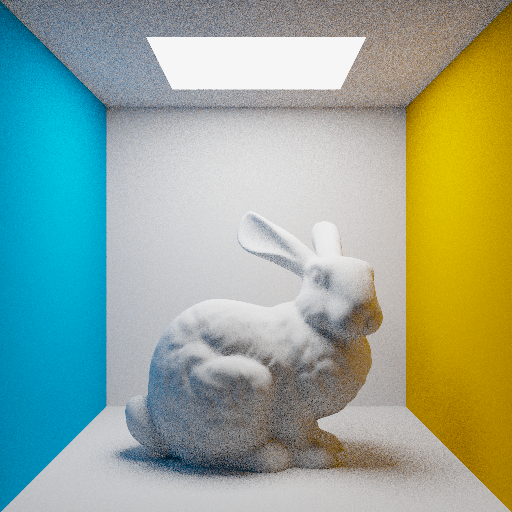
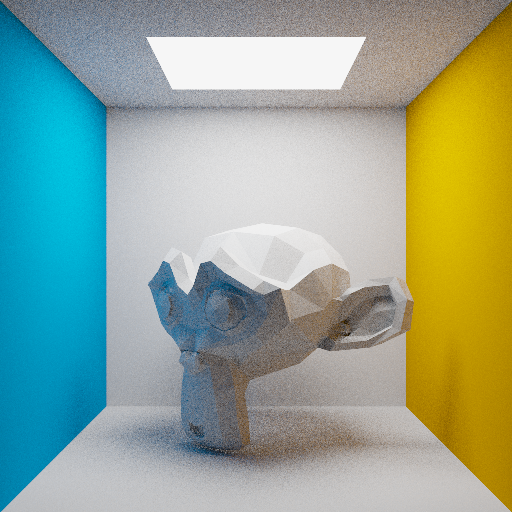
fix mesh parsing to deal index references

Changed region(s): [[0.125, 0.4062, 0.9375, 0.9688], [0.0, 0.0, 1.0, 0.25]]

diff --git a/src/geometry/mesh.h b/src/geometry/mesh.h
@@ -2,6 +2,7 @@
 #define MESH_H_
 
 #include <vector>
+#include <map>
 
 #include "glm/glm.hpp"
 
@@ -44,18 +45,17 @@ Mesh Mesh::loadObj(std::string filename){
 
     bool ret = tinyobj::LoadObj(&attrib, &shapes, &materials, &err, filename.c_str());
 
-    
+    //operator overload for std::map
+    auto compare_idx = [](const tinyobj::index_t& a, const tinyobj::index_t& b) {
+        return a.vertex_index < b.vertex_index ||
+            (a.vertex_index == b.vertex_index && a.normal_index < b.normal_index) ||
+            (a.vertex_index == b.vertex_index && a.normal_index == b.normal_index && a.texcoord_index < b.texcoord_index);
+    };
 
-    //copy vertices into mesh
-    for (int i = 0; i < attrib.vertices.size(); i+=3){
-            float vx = attrib.vertices[i];
-            float vy = attrib.vertices[i + 1];
-            float vz = attrib.vertices[i + 2];
-            glm::vec3 vertex = glm::vec3(vx, vy, vz);
-            mesh.vertices.push_back(vertex);
-            mesh.normals.push_back(glm::vec3(0.f, 0.f, 0.f));
-    }
+     std::map<tinyobj::index_t, int,decltype(compare_idx)> unique_vertices(compare_idx);
 
+
+    int current_idx;
      // copy face indices
     for (size_t s = 0; s < shapes.size(); s++) {
         size_t index_offset = 0;
@@ -67,22 +67,29 @@ Mesh Mesh::loadObj(std::string filename){
             for (size_t v = 0; v < fv; v++) {
                 // access to vertex
                 tinyobj::index_t idx = shapes[s].mesh.indices[index_offset + v];
-                tinyobj::real_t vx = attrib.vertices[3*idx.vertex_index+0];
-                tinyobj::real_t vy = attrib.vertices[3*idx.vertex_index+1];
-                tinyobj::real_t vz = attrib.vertices[3*idx.vertex_index+2];
-                tinyobj::real_t nx = attrib.normals[3*idx.normal_index+0];
-                tinyobj::real_t ny = attrib.normals[3*idx.normal_index+1];
-                tinyobj::real_t nz = attrib.normals[3*idx.normal_index+2];
-                tinyobj::real_t tx = attrib.texcoords[2*idx.texcoord_index+0];
-                tinyobj::real_t ty = attrib.texcoords[2*idx.texcoord_index+1];
 
-              
-                mesh.face_indices.push_back(idx.vertex_index);
-                mesh.normals[idx.vertex_index] = glm::vec3(nx, ny, nz);
-                // Optional: vertex colors
-                // tinyobj::real_t red = attrib.colors[3*idx.vertex_index+0];
-                // tinyobj::real_t green = attrib.colors[3*idx.vertex_index+1];
-                // tinyobj::real_t blue = attrib.colors[3*idx.vertex_index+2];
+                auto it = unique_vertices.find(idx);
+
+                if (it != unique_vertices.end()) {
+                    mesh.face_indices.push_back(it->second);
+                } else {
+                  
+                    tinyobj::real_t vx = attrib.vertices[3*idx.vertex_index+0];
+                    tinyobj::real_t vy = attrib.vertices[3*idx.vertex_index+1];
+                    tinyobj::real_t vz = attrib.vertices[3*idx.vertex_index+2];
+                    tinyobj::real_t nx = attrib.normals[3*idx.normal_index+0];
+                    tinyobj::real_t ny = attrib.normals[3*idx.normal_index+1];
+                    tinyobj::real_t nz = attrib.normals[3*idx.normal_index+2];
+                    tinyobj::real_t tx = attrib.texcoords[2*idx.texcoord_index+0];
+                    tinyobj::real_t ty = attrib.texcoords[2*idx.texcoord_index+1];
+
+                    mesh.face_indices.push_back(current_idx);
+                    mesh.vertices.push_back(glm::vec3(vx, vy, vz));
+                    mesh.normals.push_back(glm::vec3(nx, ny, nz));
+
+                    unique_vertices.insert(std::pair<tinyobj::index_t, int>(idx, current_idx));
+                    current_idx += 1;
+                }
             }
             index_offset += fv;
 
